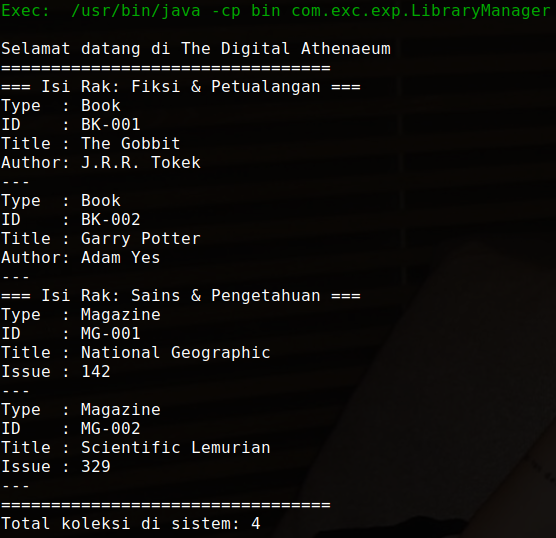
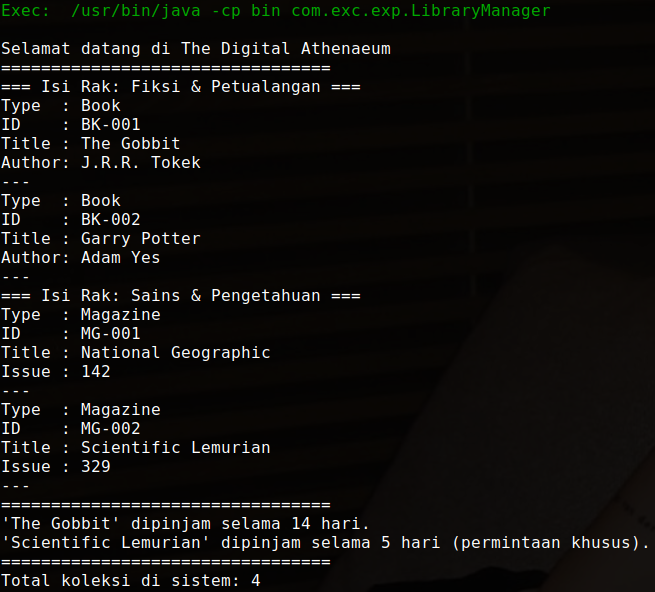
Update output

Changed region(s): [[0.0, 0.0595, 0.7032, 1.0], [0.0, 0.0, 1.0, 0.0297], [0.7032, 0.8922, 0.9784, 0.9517]]

diff --git a/index.html b/index.html
@@ -139,6 +139,10 @@
         totalItems++;
     }
     
+    <span class="code-keyword">public</span> <span class="code-class">String</span> <span class="code-method">getTitle</span>() {
+        <span class="code-keyword">return</span> title;
+    }
+    
     <span class="code-keyword">public abstract</span> <span class="code-class">String</span> <span class="code-method">getItemType</span>();
     
     <span class="code-keyword">public static int</span> <span class="code-method">getTotalItems</span>() {
@@ -225,6 +229,15 @@
                         <div id="code-main" class="code-container" style="display:none;">
                             <pre class="code-block"><code class="language-java"><span class="code-keyword">public class</span> <span class="code-class">LibraryManager</span> {
     <span class="code-keyword">public static final</span> <span class="code-class">String</span> LIBRARY_NAME = <span class="code-string">"The Digital Athenaeum"</span>;
+    <span class="code-keyword">public static final int</span> MAX_LEND_DAYS = 14;
+    
+    <span class="code-keyword">public void</span> <span class="code-method">lendItem</span>(<span class="code-class">LibraryItem</span> item) {
+        System.<span class="code-method">out</span>.<span class="code-method">println</span>(<span class="code-string">"'"</span> + item.<span class="code-method">getTitle</span>() + <span class="code-string">"' dipinjam selama "</span> + MAX_LEND_DAYS + <span class="code-string">" hari."</span>);
+    }
+
+    <span class="code-keyword">public void</span> <span class="code-method">lendItem</span>(<span class="code-class">LibraryItem</span> item, <span class="code-keyword">int</span> customDays) {
+        System.<span class="code-method">out</span>.<span class="code-method">println</span>(<span class="code-string">"'"</span> + item.<span class="code-method">getTitle</span>() + <span class="code-string">"' dipinjam selama "</span> + customDays + <span class="code-string">" hari (permintaan khusus)."</span>);
+    }
 
     <span class="code-keyword">public static void</span> <span class="code-method">main</span>(<span class="code-class">String</span>[] args) {
         System.<span class="code-method">out</span>.<span class="code-method">println</span>(<span class="code-string">"Selamat datang di "</span> + LIBRARY_NAME);
@@ -233,18 +246,22 @@
         <span class="code-class">Shelf</span>&lt;<span class="code-class">Book</span>&gt; bookShelf = <span class="code-keyword">new</span> <span class="code-class">Shelf</span>&lt;&gt;(<span class="code-string">"Fiksi & Petualangan"</span>);
         <span class="code-class">Shelf</span>&lt;<span class="code-class">Magazine</span>&gt; magazineRack = <span class="code-keyword">new</span> <span class="code-class">Shelf</span>&lt;&gt;(<span class="code-string">"Sains & Pengetahuan"</span>);
         
-        bookShelf.<span class="code-method">addItems</span>(
-            <span class="code-keyword">new</span> <span class="code-class">Book</span>(<span class="code-string">"BK-001"</span>, <span class="code-string">"The Gobbit"</span>, <span class="code-string">"J.R.R. Tokek"</span>),
-            <span class="code-keyword">new</span> <span class="code-class">Book</span>(<span class="code-string">"BK-002"</span>, <span class="code-string">"Garry Potter"</span>, <span class="code-string">"Adam Yes"</span>)
-        );
+        <span class="code-class">Book</span> book1 = <span class="code-keyword">new</span> <span class="code-class">Book</span>(<span class="code-string">"BK-001"</span>, <span class="code-string">"The Gobbit"</span>, <span class="code-string">"J.R.R. Tokek"</span>);
+        <span class="code-class">Book</span> book2 = <span class="code-keyword">new</span> <span class="code-class">Book</span>(<span class="code-string">"BK-002"</span>, <span class="code-string">"Garry Potter"</span>, <span class="code-string">"Adam Yes"</span>);
+        bookShelf.<span class="code-method">addItems</span>(book1, book2);
 
-        magazineRack.<span class="code-method">addItems</span>(
-            <span class="code-keyword">new</span> <span class="code-class">Magazine</span>(<span class="code-string">"MG-001"</span>, <span class="code-string">"National Geographic"</span>, 142),
-            <span class="code-keyword">new</span> <span class="code-class">Magazine</span>(<span class="code-string">"MG-002"</span>, <span class="code-string">"Scientific Lemurian"</span>, 329)
-        );
+        <span class="code-class">Magazine</span> mag1 = <span class="code-keyword">new</span> <span class="code-class">Magazine</span>(<span class="code-string">"MG-001"</span>, <span class="code-string">"National Geographic"</span>, 142);
+        <span class="code-class">Magazine</span> mag2 = <span class="code-keyword">new</span> <span class="code-class">Magazine</span>(<span class="code-string">"MG-002"</span>, <span class="code-string">"Scientific Lemurian"</span>, 329);
+        magazineRack.<span class="code-method">addItems</span>(mag1, mag2);
 
         bookShelf.<span class="code-method">displayShelfContents</span>();
         magazineRack.<span class="code-method">displayShelfContents</span>();
+        
+        System.<span class="code-method">out</span>.<span class="code-method">println</span>(<span class="code-string">"================================="</span>);
+        
+        <span class="code-class">LibraryManager</span> manager = <span class="code-keyword">new</span> <span class="code-class">LibraryManager</span>();
+        manager.<span class="code-method">lendItem</span>(book1);
+        manager.<span class="code-method">lendItem</span>(mag2, 5);
         
         System.<span class="code-method">out</span>.<span class="code-method">println</span>(<span class="code-string">"================================="</span>);
         System.<span class="code-method">out</span>.<span class="code-method">println</span>(<span class="code-string">"Total koleksi di sistem: "</span> + <span class="code-class">LibraryItem</span>.<span class="code-method">getTotalItems</span>());
